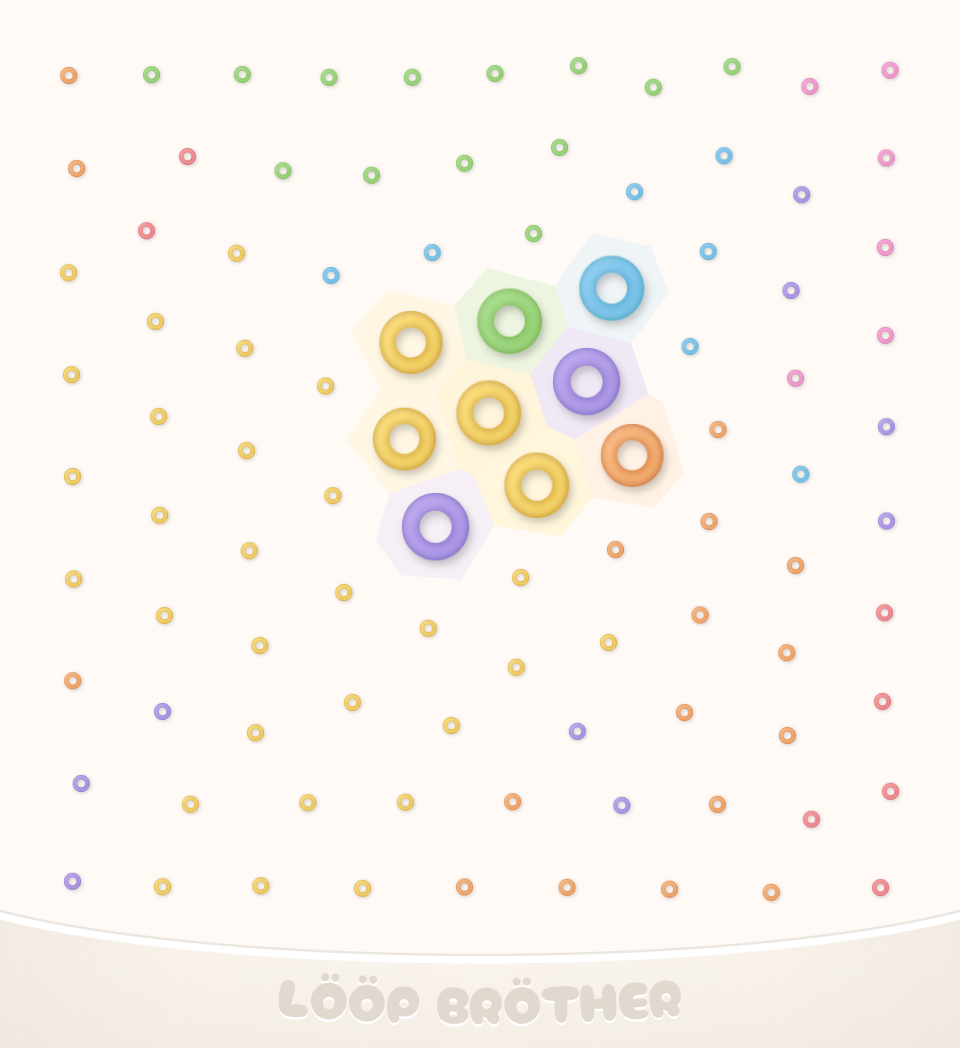
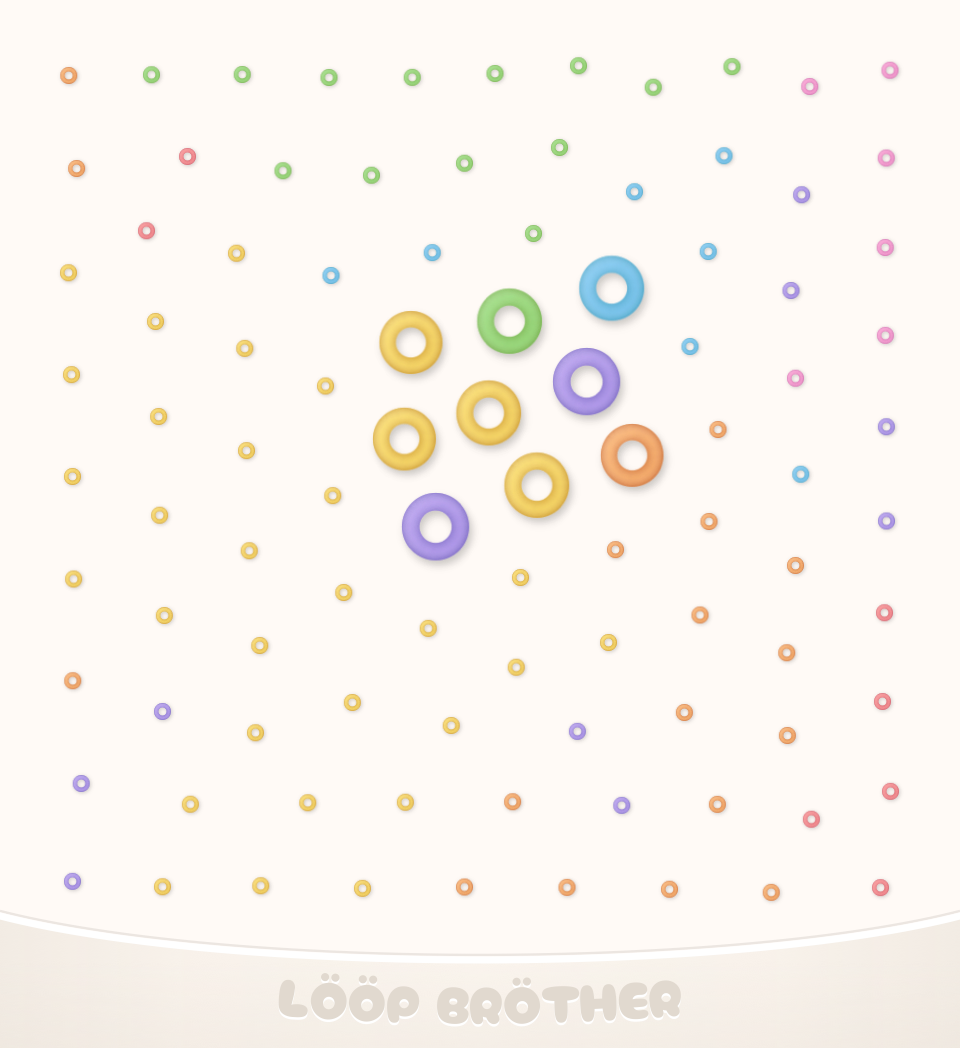
Stop tinting the cells under the circle (v0.13.1)
The full-size rings already show which breaks the circle covers, so the
colour wash on their cells only muddied the cream pad. Every cell now
looks the same, and the rings alone mark the selection.

With no washes, the cell outlines were drawn by nothing. The per-frame
rippled cell shapes and the table of which cells meet at each corner
are gone with them.

Changed region(s): [[0.4375, 0.3359, 0.625, 0.5191]]

diff --git a/src/PluginEditor.cpp b/src/PluginEditor.cpp
@@ -9,28 +9,6 @@ XYPad::XYPad(JungleProcessor& p) : proc(p), lib(p.library())
     px = p.apvts.getParameter("x");
     py = p.apvts.getParameter("y");
     psize = p.apvts.getParameter("size");
-
-    // Which cells meet at each corner of each cell: the ones whose breaks
-    // are nearest to it (a Voronoi corner is equally far from all of them).
-    for (const auto& poly : lib.cells())
-    {
-        std::vector<std::vector<int>> owners;
-        for (const auto& v : poly)
-        {
-            double nearest = std::numeric_limits<double>::max();
-            std::vector<double> dist;
-            for (int i = 0; i < lib.size(); ++i)
-            {
-                dist.push_back(std::hypot(v.x - lib.entry(i).pos.x, v.y - lib.entry(i).pos.y));
-                nearest = std::min(nearest, dist.back());
-            }
-            std::vector<int> meet;
-            for (int i = 0; i < lib.size(); ++i)
-                if (dist[(size_t) i] < nearest + 1e-5) meet.push_back(i);
-            owners.push_back(std::move(meet));
-        }
-        corners.push_back(std::move(owners));
-    }
 }
 
 XYPad::~XYPad()
@@ -49,23 +27,6 @@ juce::Point<float> XYPad::toUnit(juce::Point<float> s) const
 {
     return { juce::jlimit(0.0f, 1.0f, s.x / (float) getWidth()),
              juce::jlimit(0.0f, 1.0f, 1.0f - s.y / (float) getHeight()) };
-}
-
-void XYPad::resized()
-{
-    cellPaths.clear();
-    for (const auto& poly : lib.cells())
-    {
-        juce::Path path;
-        for (size_t i = 0; i < poly.size(); ++i)
-        {
-            const auto s = toScreen({ (float) poly[i].x, (float) poly[i].y });
-            if (i == 0) path.startNewSubPath(s);
-            else        path.lineTo(s);
-        }
-        path.closeSubPath();
-        cellPaths.push_back(std::move(path));
-    }
 }
 
 void XYPad::refresh()
@@ -101,43 +62,18 @@ void XYPad::paint(juce::Graphics& g)
     g.fillAll(cream);
     sprites.configure(kRingRadius * scale, g.getInternalContext().getPhysicalPixelScaleFactor(), *style);
 
-    // Where everything is drawn: the layout, moved by the ripples. A pushed
-    // cell's O moves with it; a border corner moves by the average of
-    // the cells that meet there, so the borders bend but never come apart.
+    // How far the ripples have moved each cell (pad units).
     const double now = juce::Time::getMillisecondCounterHiRes() / 1000.0;
     const bool rippling = ! drops.empty();
     std::vector<juce::Point<float>> shift((size_t) lib.size());
     if (rippling)
         for (int i = 0; i < lib.size(); ++i) shift[(size_t) i] = cellShift(i, now);
-    std::vector<juce::Path> rippled;
-    if (rippling)
-        for (size_t c = 0; c < lib.cells().size(); ++c)
-        {
-            const auto& poly = lib.cells()[c];
-            juce::Path path;
-            for (size_t i = 0; i < poly.size(); ++i)
-            {
-                juce::Point<float> d;
-                for (const int m : corners[c][i]) d += shift[(size_t) m];
-                d /= (float) juce::jmax<size_t>(1, corners[c][i].size());
-                const auto s = toScreen(juce::Point<float> { (float) poly[i].x, (float) poly[i].y } + d);
-                if (i == 0) path.startNewSubPath(s);
-                else        path.lineTo(s);
-            }
-            path.closeSubPath();
-            rippled.push_back(std::move(path));
-        }
-    const auto& cells = rippling ? rippled : cellPaths;
 
-    // cells under the circle, washed in their break's colour by their share
+    // The cells under the circle: only their rings show it, the cells
+    // themselves look like any other.
     std::vector<char> covered((size_t) lib.size(), 0);
     for (int m = 0; m < mixCount; ++m)
-        if (mix[m].loop >= 0 && mix[m].loop < (int) cells.size())
-        {
-            covered[(size_t) mix[m].loop] = 1;
-            g.setColour(frootLoop(lib.entry(mix[m].loop).colour).withAlpha(0.10f + 0.35f * mix[m].weight));
-            g.fillPath(cells[(size_t) mix[m].loop]);
-        }
+        if (mix[m].loop >= 0 && mix[m].loop < lib.size()) covered[(size_t) mix[m].loop] = 1;
     // A small O on every cell the circle doesn't cover. Pushed by a ripple,
     // it squashes along the push, up to kBob, like a ring tipping as it bobs
     // in milk, and swings across and along it a few times as it settles.

diff --git a/src/PluginEditor.h b/src/PluginEditor.h
@@ -67,7 +67,7 @@ inline float bowlLip(float x, float w, float scale, float inside = 0.0f)
 // a small ring, half the size of one at rest.
 //
 // Dragging pushes the cells the circle's centre passes through (their
-// washes and small rings) a few pixels the way it goes, and the cells
+// small rings) a few pixels the way it goes, and the cells
 // beside its path outwards, like a wake in liquid; growing or shrinking the
 // circle (Shift) pushes the cells round its edge outwards or inwards. A
 // pushed cell swings back past where it was and out again a few times,
@@ -86,7 +86,6 @@ public:
     ~XYPad() override;
     void refresh();                         // poll params + playback state (30 Hz)
     void paint(juce::Graphics&) override;
-    void resized() override;
     void mouseDown(const juce::MouseEvent&) override;
     void mouseDrag(const juce::MouseEvent&) override;
     void mouseUp(const juce::MouseEvent&) override;
@@ -151,8 +150,6 @@ private:
     Voice voices[kMaxMix] {};               // what is sounding
     int voiceCount = 0;
 
-    std::vector<juce::Path> cellPaths;      // in component pixels
-    std::vector<std::vector<std::vector<int>>> corners; // per cell, per corner: the cells meeting there
 };
 
 // The window's constrainer: a fixed ratio, an edge drag follows that edge, a corner

diff --git a/docs/HANDOFF.md b/docs/HANDOFF.md
@@ -1,8 +1,9 @@
 # LÖÖP BRÖTHER — handoff
 
-Updated: 2026-10-20 — v0.13.0: the logo is pressed into the bowl in a
-deeper biscuit, the ripples swing as long as the rings bob, and resizing
-the circle ripples the cells round its edge. v0.12.2 is the last published
+Updated: 2026-10-20 — v0.13.1: the logo is pressed into the bowl in a
+deeper biscuit, the ripples swing as long as the rings bob, resizing the
+circle ripples the cells round its edge, and covered cells are no longer
+tinted. v0.12.2 is the last published
 release (github.com/minusro/loopbrother/releases; `CHANGELOG.md`).
 
 ## Where things stand
@@ -141,8 +142,9 @@ bundle ID are unchanged, so saved sessions find it.
   - **Hosts that ignore the constraint:** off-ratio sizes are corrected
     afterwards by the same rules.
 
-  No cell borders are drawn. Covered cells take a wash of their break's
-  colour by share and carry a cereal ring (a Froot Loop: a thick ring,
+  No cell borders or washes are drawn: the cells themselves all look the
+  same (until v0.13.0 covered cells took a wash of their break's colour by
+  share). Covered cells carry a cereal ring (a Froot Loop: a thick ring,
   8.5 px radius at 480); every other cell carries a small one at half that
   (4.25 px), drawn from the same sprites. The look is a `jmui::RingStyle`
   (`src/Cereal.{h,cpp}`); `kRingStyles` holds nine to try
@@ -181,8 +183,7 @@ bundle ID are unchanged, so saved sessions find it.
   swings back (up to 20% flatter, tanh of the push over 0.006 of the pad),
   the pushes added as vectors at twice their axis's angle so pushes either
   way along an axis add up and a swing across turns the axis a quarter
-  (`XYPad::cellBob`); the rings under the circle hold still. A covered cell's wash moves with its
-  corners, each the average of the cells meeting there. While the circle
+  (`XYPad::cellBob`); the rings under the circle hold still. While the circle
   crosses a cell the pushes add up and it leans forward; once passed, it swings to rest. A cell
   moves at most 0.014 of the pad (7 px at 480); a slow drag moves it 2 to
   3 px. 60 Hz while any run. Drawing only: the sound follows the true
@@ -192,7 +193,7 @@ bundle ID are unchanged, so saved sessions find it.
   keeping its loudest moment so no hit falls between readings, scaled to
   the loop's peak) and read at the playhead the processor publishes; the
   pad repaints at 60 Hz so the snap shows. The selection circle itself is not
-  drawn - the washed cells show what it covers. Over the pad the pointer
+  drawn: the full-size rings show what it covers. Over the pad the pointer
   is the default arrow. (`jmui::HideCursorWhileDragging` hides it on future
   knobs and sliders.)
 - **Playback** (`src/engine/LoopEngine.h`): the mix, every loop varispeed at
@@ -296,11 +297,11 @@ bundle ID are unchanged, so saved sessions find it.
 
 ## Not yet verified
 
-- Painting at 1440 px with the largest circle takes 45 to 50 ms a frame
-  in JUCE's software renderer (7 at 480; the drag's wake adds about 3.4 ms
-  at 480). On screen macOS draws through Core Graphics, likely faster, but
-  it hasn't been timed there. The cost is the area: the cell washes and
-  2 px borders scale with the window.
+- Painting at 1440 px with the largest circle takes about 20 to 30 ms a
+  frame in JUCE's software renderer (about 2 at 480), depending on where
+  the circle is; ripples add little. On screen macOS draws through Core
+  Graphics, likely faster, but it hasn't been timed there. The cost is
+  the big rings' sprites, which scale with the window.
 
 - No DAW testing: Ableton/Logic/Bitwig transport, loop regions, tempo
   automation, state recall, many instances, window resizing (it relies on

diff --git a/CHANGELOG.md b/CHANGELOG.md
@@ -13,6 +13,8 @@ are on the [Releases](https://github.com/minusro/loopbrother/releases) page.
   of settling after one push.
 - Growing or shrinking the circle (Shift-drag) ripples the cells round
   its edge outwards or inwards, bobbing the same way.
+- The cells under the circle are no longer tinted: their full-size rings
+  alone show what it covers.
 
 ## v0.12.2 — 2026-10-20
 
